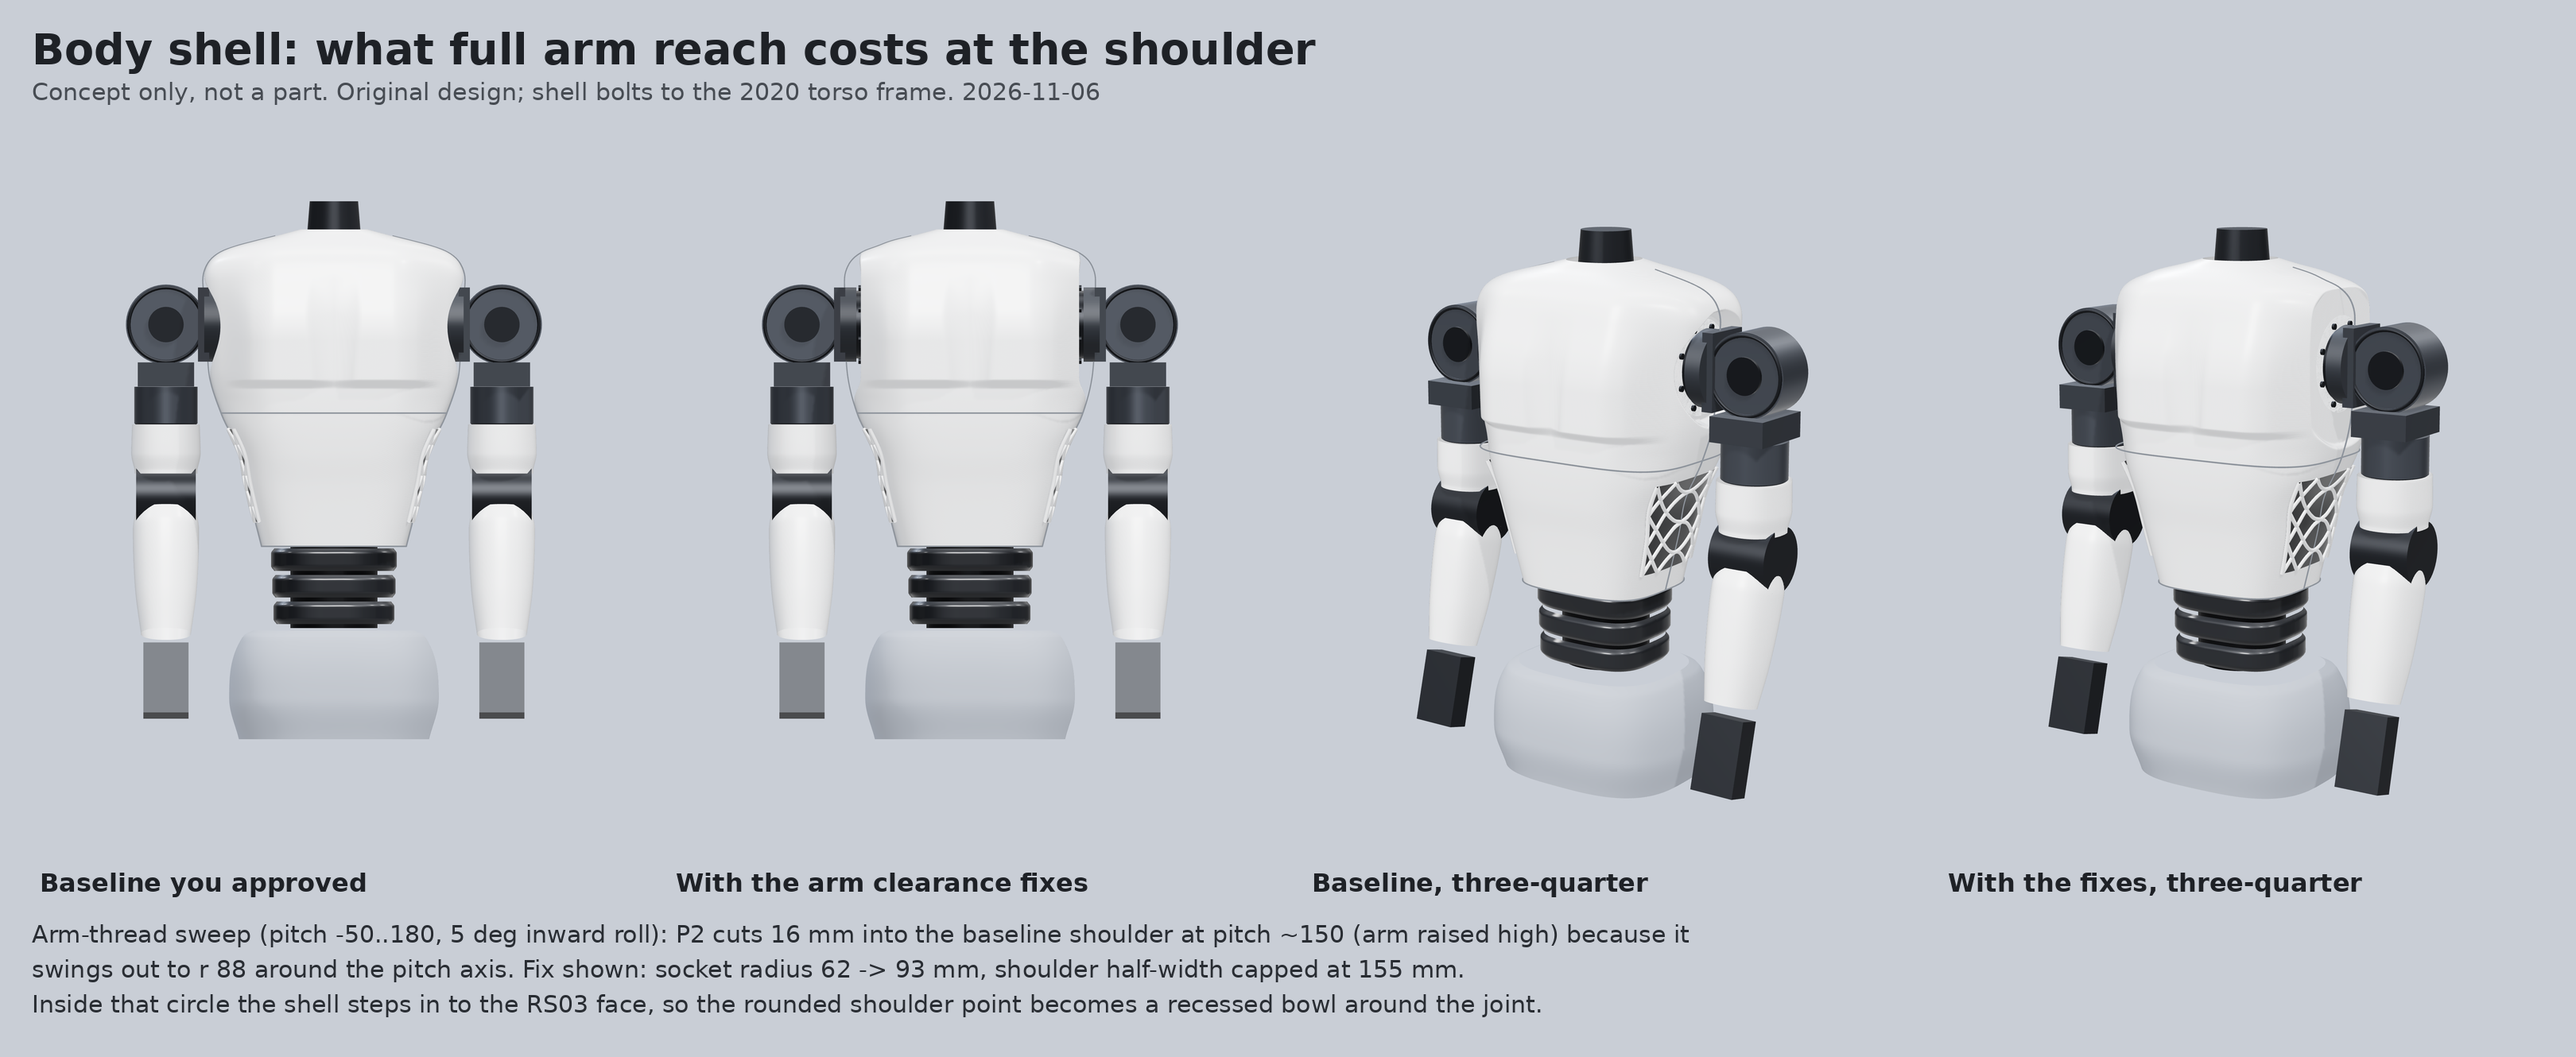
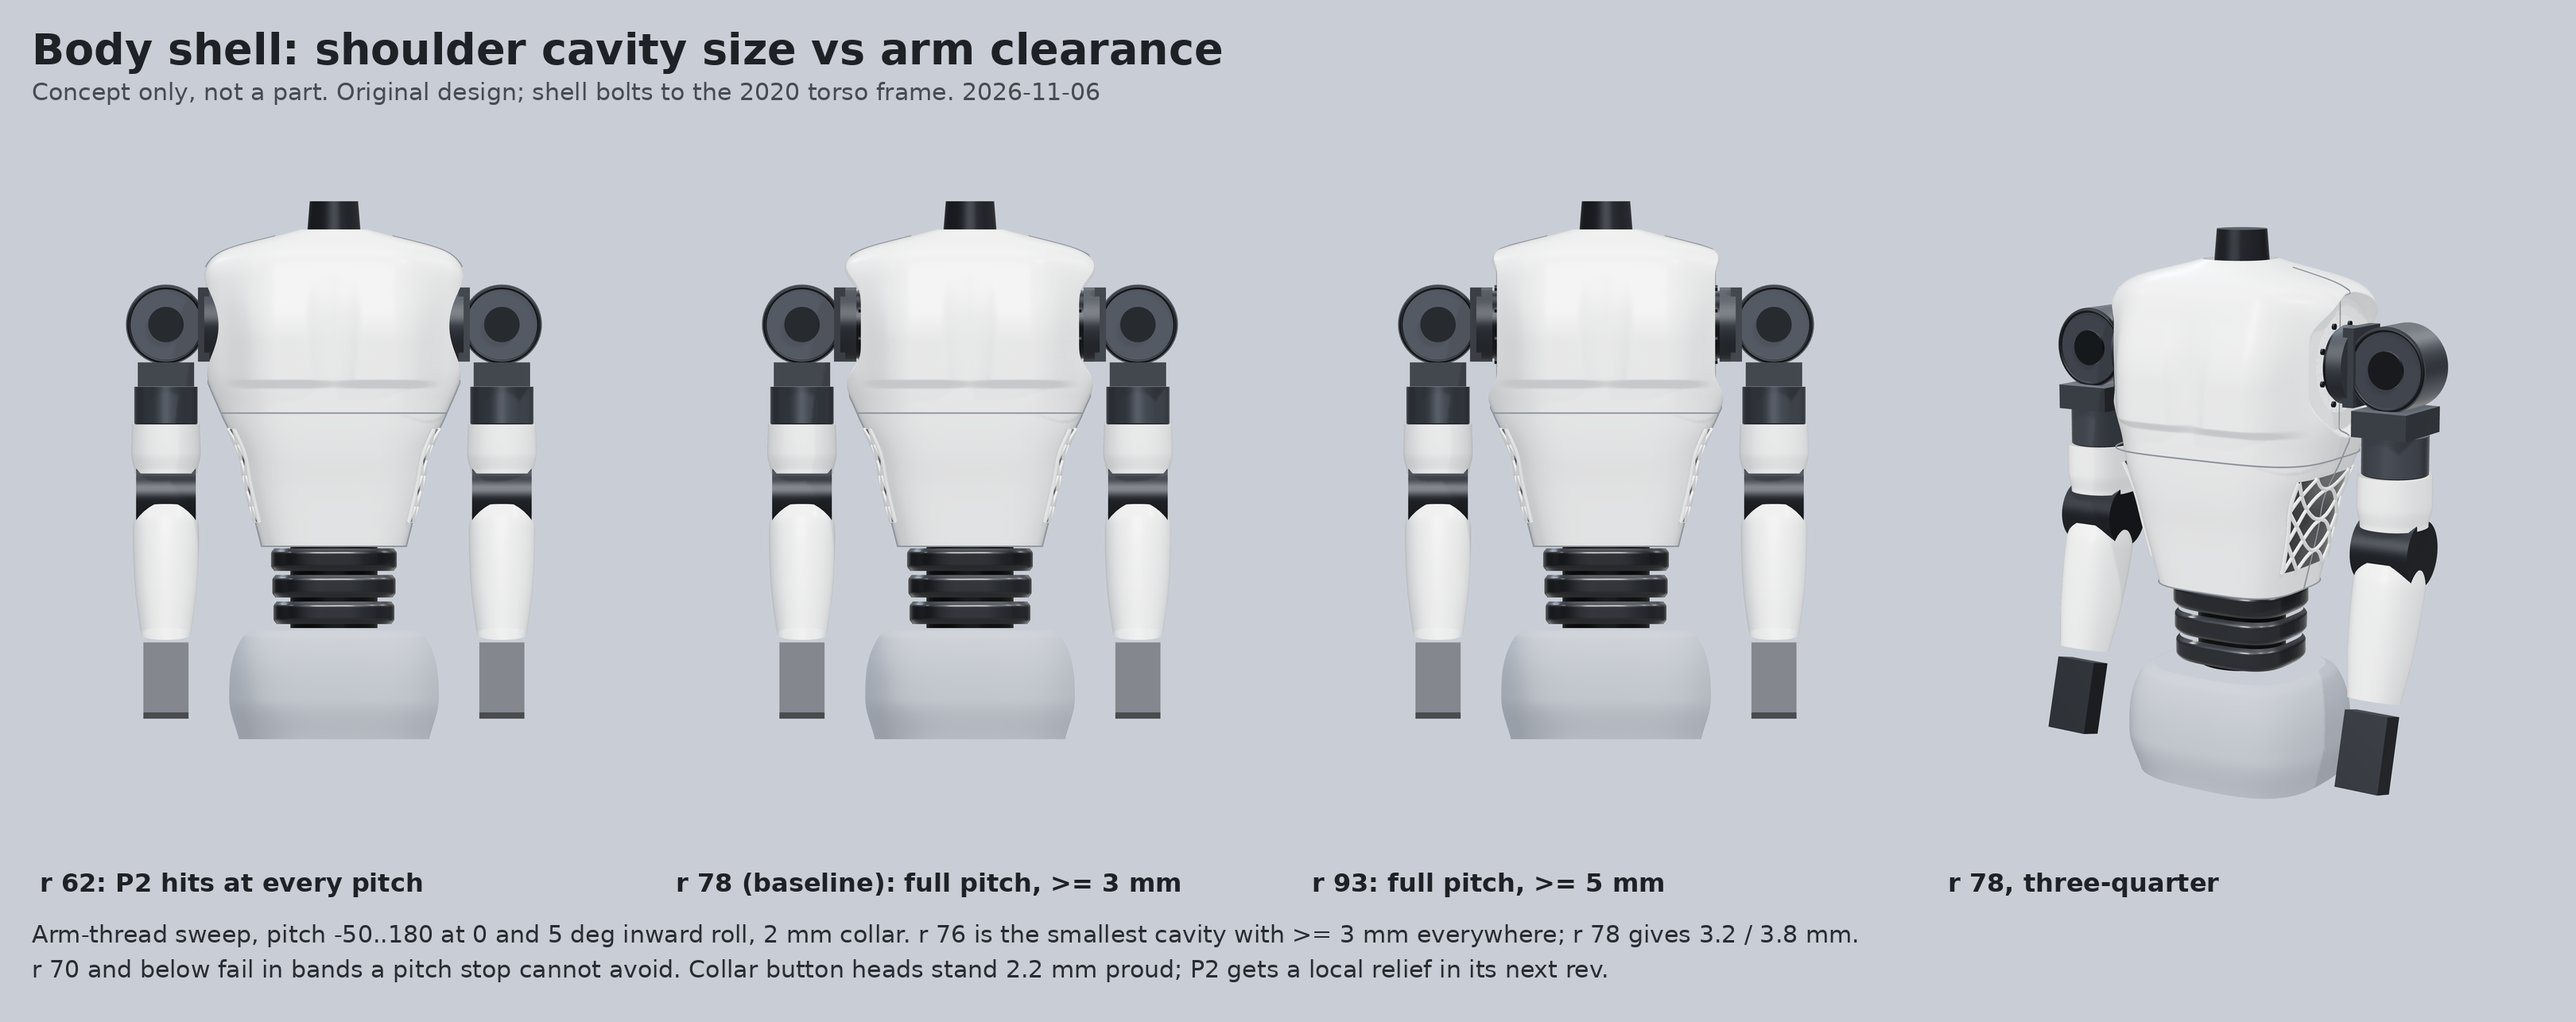
Body shell: baseline render set (wider frame, r78 shoulder cavity), README refreshed
Claude-Session: https://claude.ai/code/session_01754Cr9zuADVTu8kWS5Uq1U

diff --git a/hardware/designs/body-shell/concept/generator/scene.js b/hardware/designs/body-shell/concept/generator/scene.js
@@ -89,7 +89,7 @@ function ringPt(hw, df, db, n, th, x0 = 0) {
   const x = (s >= 0 ? df : db) * sgnpow(s, 2 / n);
   return [x + x0, y];
 }
-let CLAMP = null;
+let CLAMP = null; let SEAM_CLAMP = null;
 function loft(rows, z0, z1, mat, nz = 90, nt = 128, x0 = 0, th0 = 0, th1 = 2 * Math.PI, tag = null, ex = [0, 0, 0]) {
   const pos = [], idx = [];
   for (let i = 0; i <= nz; i++) {
@@ -118,7 +118,7 @@ function seamRing(rows, z, x0 = 0, grow = 0.8) {
 function seamVert(rows, th, za, zb, x0 = 0, grow = 0.8) {
   const pts = [];
   for (let i = 0; i <= 60; i++) { const z = za + (zb - za) * i / 60; const [hw, df, db, n] = interp(rows, z);
-    const [x, y] = ringPt(hw + grow, df + grow, db + grow, n, th, x0); pts.push(P(x, y, z)); }
+    let [x, y] = ringPt(hw + grow, df + grow, db + grow, n, th, x0); let zz = z; if (SEAM_CLAMP) [x, y, zz] = SEAM_CLAMP(x, y, z); pts.push(P(x, y, zz)); }
   add(new THREE.Mesh(new THREE.TubeGeometry(new THREE.CatmullRomCurve3(pts), 120, 0.9, 6), seamMat));
 }
 
@@ -153,7 +153,8 @@ const chest = [
 ];
 // shoulder socket: inside radius SOCK_R of the pitch axis the shell side steps in to the RS03 face (Y = +-97),
 // so the rotating P1 and roll RS03 (sweep radius ~57 mm) never touch it
-const SOCK_R = Number(q.get('sock') ?? 62);   // P2 sweeps to r 88 about the pitch axis (arm thread, 2026-11-06)
+const RIM = Number(q.get('rim') ?? 7);
+const SOCK_R = Number(q.get('sock') ?? 78);   // arm thread 2026-11-06: r76 min for full pitch with >=3 mm, r78 for margin
 const sstep = (a, b, v) => { const t = Math.min(1, Math.max(0, (v - a) / (b - a))); return t * t * (3 - 2 * t); };
 // male chest plate: two pec masses with a sternum groove and a crisp lower edge
 const PEC_Z = ZS - 30;
@@ -167,10 +168,11 @@ const pec = (x, y, z) => { if (x <= 0) return [x, y, z]; const ay = Math.abs(y);
   const roll = 1 - 0.3 * sstep(0.45 * WALL, 0.98 * WALL, ay) * rz;
   return [(x + 15 * g * v * w) * roll, y, z]; };
 const socket = (x, y, z) => { const r = Math.hypot(x, z - ZS); if (Math.abs(y) <= FACE) return [x, y, z];
-  const t = Math.min(1, Math.max(0, (r - SOCK_R) / 7)); const k = t * t * (3 - 2 * t);
+  const t = Math.min(1, Math.max(0, (r - SOCK_R) / RIM));
+  const k = RIM > 7 ? Math.sqrt(1 - (1 - t) * (1 - t)) : t * t * (3 - 2 * t);   // RIM > 7: rolled quarter-round lip into the cavity
   return [x, Math.sign(y) * (FACE + (Math.abs(y) - FACE) * k), z]; };
 const SEAM_Z = F0 + 160;
-CLAMP = (x, y, z) => { const p = pec(x, y, z); return socket(p[0], p[1], p[2]); };
+CLAMP = (x, y, z) => { const p = pec(x, y, z); return socket(p[0], p[1], p[2]); }; SEAM_CLAMP = CLAMP;
 loft(chest, SEAM_Z, F1 + 48, white, 240, 200, 4, 0, Math.PI, 'chest upper front', [110, 0, 60]);
 loft(chest, SEAM_Z, F1 + 48, white, 240, 200, 4, Math.PI, 2 * Math.PI, 'chest upper back', [-110, 0, 60]);
 loft(chest, F0 - 6, SEAM_Z, white, 50, 80, 4, 0, Math.PI, 'chest lower front', [110, 0, -40]);

diff --git a/hardware/designs/body-shell/concept/generator/compose.py b/hardware/designs/body-shell/concept/generator/compose.py
@@ -21,22 +21,22 @@ def sheet(panels, title, sub, out, notes=None):
         for n in notes: d.text((pad, y), n, font=f(30), fill=(40, 44, 50)); y += 44
     S.save('final/' + out, optimize=True); print(out, S.size)
 sub = 'Concept only, not a part. Original design; shell bolts to the 2020 torso frame. 2026-11-06'
-sheet([(crop('hero.png', (560, 0, 2640, 2400)), 'Square shoulders, V-taper, slim dark waist; arm mechanics exposed')], 'Marengo body shell, concept B', sub, 'SHELL_CONCEPT_HERO.png')
+sheet([(crop('hero.png', (560, 0, 2640, 2400)), 'Baseline: heroic shoulders on a wider frame, rounded shoulder and chest, slim dark waist; arm mechanics exposed')], 'Marengo body shell, baseline', sub, 'SHELL_CONCEPT_HERO.png')
 sheet([(crop(n + '.png', (900, 0, 2300, 2400), w=900), l) for n, l in [('front', 'Front'), ('side', 'Side (robot left)'), ('back', 'Back')]],
-      'Body shell, concept B: front, side, back', sub, 'SHELL_CONCEPT_VIEWS.png')
+      'Body shell baseline: front, side, back', sub, 'SHELL_CONCEPT_VIEWS.png')
 sheet([(crop('fullA.png', (1100, 0, 2100, 2400), w=760), 'Frame as built: shoulder 1165 mm'),
        (crop('fullB.png', (1100, 0, 2100, 2400), w=760), '+70 mm waist: shoulder 1235 mm'),
        (crop('fullBiso.png', (900, 0, 2300, 2400), w=1060), '+70 mm waist, 3/4')],
       'Longer stomach: +70 mm waist section', sub, 'SHELL_CONCEPT_PROPORTIONS.png',
-      ['Legs are grey placeholders at the draft lengths in kinematics.md (5 ft total). The extension goes between the waist yaw and the frame,',
-       'which closes the ~70 mm shoulder-height shortfall and gives the longer belly. Arms at 215 + 195 + 90 mm read short against a 5 ft body.'])
-sheet([(crop('shoulder.png', (0, 0, 3200, 2400), w=1300), 'Shoulder socket: shell steps in to the RS03 face around the joint'),
+      ['Legs are grey placeholders at the draft lengths in kinematics.md (5 ft total). The extension goes between the waist yaw and the frame and brings',
+       'shoulder height within 1% of a 5 ft man. Arms at 215 + 195 + 90 mm are 24% / 12% short (see PROPORTIONS.md); the arm thread has a length card open.'])
+sheet([(crop('shoulder.png', (0, 0, 3200, 2400), w=1300), 'Shoulder cavity (r 78): shell steps in to the RS03 face around the joint'),
        (crop('explode.png', (600, 350, 2600, 2250), w=1000), 'Print panels, exploded')],
-      'Body shell, concept B: shoulder interface and P2S panel split', sub, 'SHELL_CONCEPT_PANELS.png',
-      ['Shoulders 242 mm across, sides pulled to +-90 where the arm hangs, 158 mm at the chest bottom, 136 mm dark waist. Around the pitch joint the shell steps in to the RS03 face (Y +-97) inside a 62 mm',
-       'radius socket, clear of the ~57 mm P1/roll sweep. The collar (114 mm OD) sits in the socket under the RS03 outer-ring bolts; those bolts also',
-       'hold the motor to its bracket, so the collar waits on the arm thread. Socket edge is jagged only in this mock-up render.',
-       '13 panels, largest 242 x 228 x 108 mm (chest upper front), all inside the P2S 256 mm cube. Shoulder parts shown are stand-ins.'])
+      'Body shell baseline: shoulder cavity and P2S panel split', sub, 'SHELL_CONCEPT_PANELS.png',
+      ['Frame widened 38 mm per side (wide upper box), shoulder joints at Y +-208.5. Shell 324 mm across the shoulders, 178 mm at the chest bottom,',
+       '156 mm dark waist. Around each pitch joint the shell steps in to the RS03 face (Y +-135) inside a 78 mm cavity: the arm thread\'s sweep',
+       'needs r 76 for full pitch (-50..180) with >= 3 mm. The 2 mm collar sits in the cavity on the RS03\'s unused outboard M4 holes.',
+       'Upper panels ~310 mm and lower ~279 mm wide split at the centre for the P2S. Exploded frame is the single-box stand-in; the two-box frame is in progress.'])
 sheet([(crop('w0.png', (700, 300, 2500, 2300), w=900), 'Shoulders as built: roll axes 341 mm apart'),
        (crop('w25.png', (700, 300, 2500, 2300), w=900), 'P1 +25 mm per side: 391 mm apart'),
        (crop('w25iso.png', (700, 200, 2500, 2400), w=900), '+25 mm, three-quarter')],
@@ -51,11 +51,10 @@ sheet([(crop('r38iso.png', (700, 200, 2500, 2400), w=760), 'Previous: flatter ch
       ['Shoulder point is a quarter-round cap (about 40 mm radius), the top slopes up to the neck like a trapezius, and the chest front rolls back',
        'toward each shoulder (up to 30% of its depth at the outer edge), like a pec wrapping into the shoulder. Side line unchanged.',
        'Width from a wider 2020 frame: +38 mm per side (rails 150 -> 226 mm), pitch RS03 faces at Y +-135.5, P1 unchanged. Waist +10 mm per side.'])
-sheet([(crop('c38.png', (600, 200, 2600, 2300), w=760), 'Baseline you approved'),
-       (crop('k93.png', (600, 200, 2600, 2300), w=760), 'With the arm clearance fixes'),
-       (crop('c38iso.png', (700, 200, 2500, 2400), w=760), 'Baseline, three-quarter'),
-       (crop('k93iso.png', (700, 200, 2500, 2400), w=760), 'With the fixes, three-quarter')],
-      'Body shell: what full arm reach costs at the shoulder', sub, 'SHELL_CONCEPT_CLEARANCE.png',
-      ['Arm-thread sweep (pitch -50..180, 5 deg inward roll): P2 cuts 16 mm into the baseline shoulder at pitch ~150 (arm raised high) because it',
-       'swings out to r 88 around the pitch axis. Fix shown: socket radius 62 -> 93 mm, shoulder half-width capped at 155 mm.',
-       'Inside that circle the shell steps in to the RS03 face, so the rounded shoulder point becomes a recessed bowl around the joint.'])
+sheet([(crop('c38.png', (600, 200, 2600, 2300), w=760), 'r 62: P2 hits at every pitch'),
+       (crop('front.png', (600, 200, 2600, 2300), w=760), 'r 78 (baseline): full pitch, >= 3 mm'),
+       (crop('k93.png', (600, 200, 2600, 2300), w=760), 'r 93: full pitch, >= 5 mm'),
+       (crop('hero.png', (700, 200, 2500, 2400), w=760), 'r 78, three-quarter')],
+      'Body shell: shoulder cavity size vs arm clearance', sub, 'SHELL_CONCEPT_CLEARANCE.png',
+      ['Arm-thread sweep, pitch -50..180 at 0 and 5 deg inward roll, 2 mm collar. r 76 is the smallest cavity with >= 3 mm everywhere; r 78 gives 3.2 / 3.8 mm.',
+       'r 70 and below fail in bands a pitch stop cannot avoid. Collar button heads stand 2.2 mm proud; P2 gets a local relief in its next rev.'])

diff --git a/hardware/designs/body-shell/concept/README.md b/hardware/designs/body-shell/concept/README.md
@@ -22,23 +22,24 @@ mock-up, not SolidWorks; the real panels get modelled on Joey-PC once the look i
 | `PROPORTIONS.md` | Proportion check of the baseline against ANSUR II men scaled to 5 ft |
 | `SHELL_CONCEPT_CLEARANCE.png` | Baseline vs the arm-thread clearance fixes (socket r 93, shoulder half-width ≤155); Joey kept the baseline |
 
-## Key dimensions (robot frame, X forward, Y left, Z up)
+## Key dimensions (robot frame, X forward, Y left, Z up), baseline 2026-11-06
 
 | Item | Value | Source |
 | --- | --- | --- |
-| Frame | 140 deep x 150 wide x 340 tall | `docs/kinematics.md` |
-| Shoulder pitch axis | 424.9 mm above pelvis bottom; output faces at Y ±97 | `docs/kinematics.md` |
-| Arm line | Y ±170.5 | `designs/left-arm/urdf/left_arm.urdf` |
-| Chest shell | 242 mm at the shoulders; sides ±90 from 100–200 mm below the shoulder axis; 158 mm at the chest bottom | this concept |
-| Waist (dark bands) | 136 mm wide, 3 bands over the waist yaw RS03 | this concept |
-| Shoulder socket | 62 mm radius around the pitch axis, floor at the RS03 face (Y ±97.5); P1/roll sweep is ~57 mm | this concept |
-| Chest depth | 108 mm front + 88 mm back of frame centre (196 mm) | this concept |
-| Shoulder collar | 114 mm OD, 86 mm ID, about 3 mm, under the RS03 outer-ring bolts | this concept |
-| Waist extension (option) | +70 mm between waist yaw and frame | closes the shoulder-height shortfall |
+| Frame | Two-box: wide upper box (+38 mm per side, 226 wide) over the 150 wide lower box; 140 deep | arm thread, `designs/left-arm/envelope/TORSO_WIDE_VARIANT.md` |
+| Shoulder pitch axis | 424.9 mm above pelvis bottom; RS03 output faces at Y ±135 | arm thread |
+| Arm line | Y ±208.5 | arm thread |
+| Chest shell | 324 mm at the shoulder point (rounded cap ~R40, trapezius slope to the neck); 278 mm 111 mm below the axis; 178 mm at the chest bottom | this concept |
+| Waist (dark bands) | 156 mm wide, 3 bands over the waist yaw RS03 | this concept |
+| Shoulder cavity | 78 mm radius around the pitch axis, floor at the RS03 face. r 76 is the minimum for full pitch (-50..180) with >= 3 mm at 0 and 5 deg inward roll | arm-thread sweep |
+| Chest depth | ~124 mm front (pec) + 88 mm back (212 mm) | this concept |
+| Shoulder collar | 114 mm OD, 86 mm ID, 2 mm flange, on the 8 unused outboard M4 holes (M4x10 button heads) | arm thread |
+| Waist extension (option) | +70 mm between waist yaw and frame | brings shoulder height within 1 % of a 5 ft man |
+| Proportions | Robot-stylised (Joey): heroic shoulders, slim waist | `PROPORTIONS.md` |
 
 ## Panels (Bambu P2S, 256 x 256 x 256 mm)
 
-13 panels, all inside the build volume. The largest is the chest upper front at 242 x 228 x 108 mm (14 mm margin).
+At the baseline width the chest panels exceed 256 mm across (upper ~310, lower ~279), so each splits at the centre line: 17 panels, all inside the P2S volume.
 
 - Chest: upper front, upper back, lower front, lower back (magnet-held service hatch for the Pi).
 - Chest shield: separate raised front plate, so it can be printed in a different finish.
@@ -50,14 +51,12 @@ the outer frame slots, M3 heat-set inserts in the panel bosses, lapped seams.
 
 ## Open points
 
-- Collar mounting (from the arm thread): the 8 unused outboard M4 holes on the pitch RS03's 98 mm bolt circle, new M4x10
-  button heads, 2–3 mm flange, bore at least 72 mm. P1 stays beyond Y 101.75 from r 24 to 54, so the flange must stay inside that.
-- Sides are pulled in to Y ±90 from 100–200 mm below the shoulder axis, as the arm thread asked (at least 5 mm at 5° inward roll).
-  The in-between line keeps the wall 5–7 mm inside the shoulder point down to 55 mm below the axis (about 7 mm to the arm at 5° inward roll, rough check).
-  Re-check once Joey picks the inward roll stop (5° or 15°); see `../../left-arm/envelope/`.
-- The exposed shoulder parts in these renders are simple stand-ins, not the real P1/P2 geometry.
-- At 215 + 195 + 90 mm the arms read short against a 5 ft body in the proportion view.
-- The +70 mm waist section changes the URDF torso height and needs a structural spacer, not just shell.
+- Shell geometry has to follow the two-box frame once the arm thread fixes the step height and gusset outline.
+- Upper-arm length card (240/200, 215/195 or 250/210) is open with Joey on the arm thread; the renders use 215/195.
+- Collar M4 button heads stand 2.2 mm proud; the arm thread adds a local relief to P2's inner edge.
+- Panels are sacrificial crash covers (load case: a fall down the stairs). Keep one fixed mounting interface per panel so variants (colour, shape, cooling and vents) can swap without frame changes.
+- Exposed shoulder parts and the exploded-view frame are stand-ins.
+- Armor-plate breakup and the real panels are SolidWorks work on Joey-PC.
 
 ## Regenerating
 
